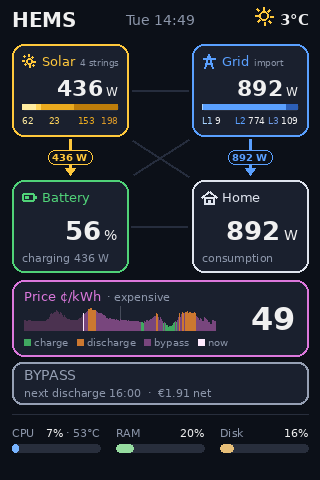
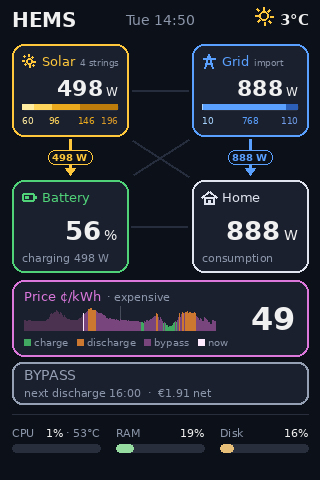
Display: drop L1-L3 labels, phase values coloured like their bar segment

diff --git a/hems/display.py b/hems/display.py
@@ -377,7 +377,7 @@ def energy_section(d, v):
         tile(d, "battery", "Battery", icon_battery, GREEN, "--", " %", "", False)
     stacked_tile(d, "grid", "Grid", icon_grid, BLUE,
                  p1["grid_w"] if p1 else None, "import" if (p1 and p1["grid_w"] >= 0) else "export",
-                 p1["phases_w"] if p1 else [], PHASE_COL, PHASE_TXT, p1_ok, names=["L1", "L2", "L3"])
+                 p1["phases_w"] if p1 else [], PHASE_COL, PHASE_TXT, p1_ok)
     tile(d, "home", "Home", icon_home, WHITE, f"{home}" if home is not None else "--", " W",
          "consumption", home is not None)
 
